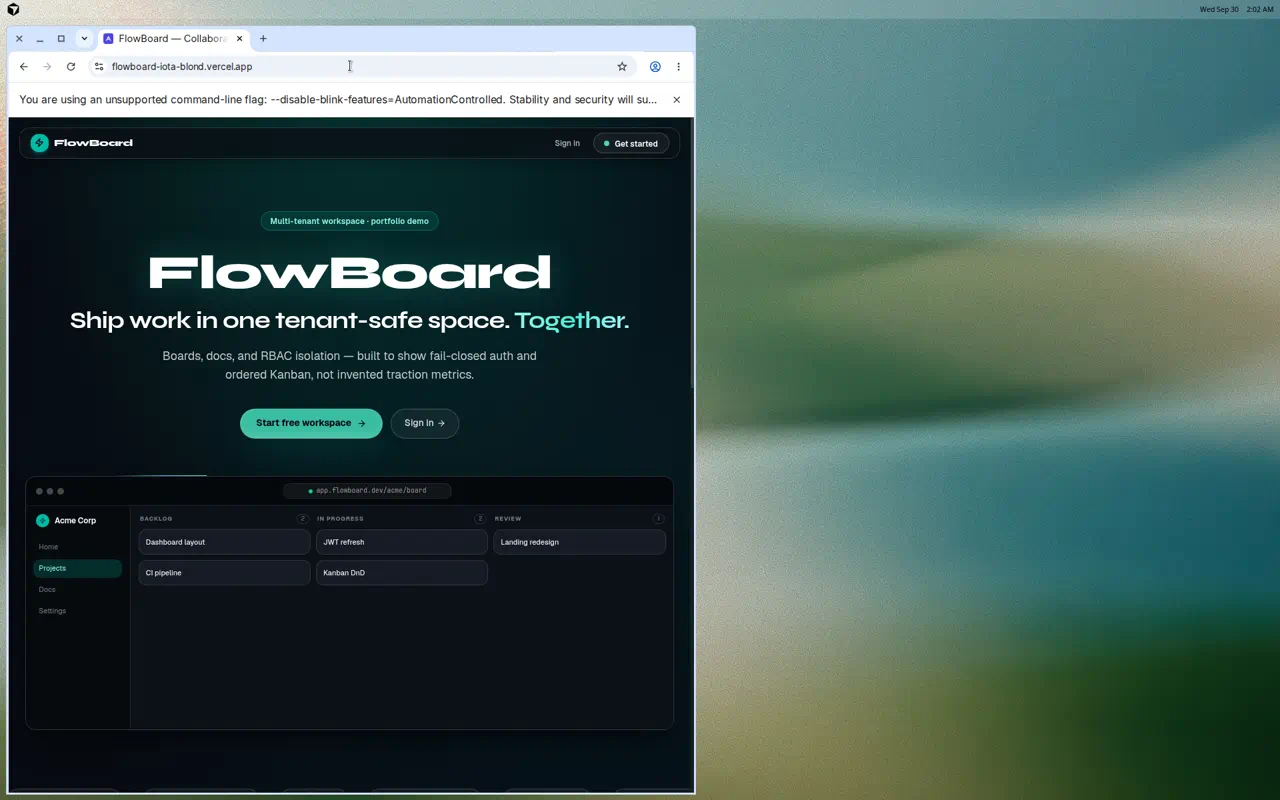
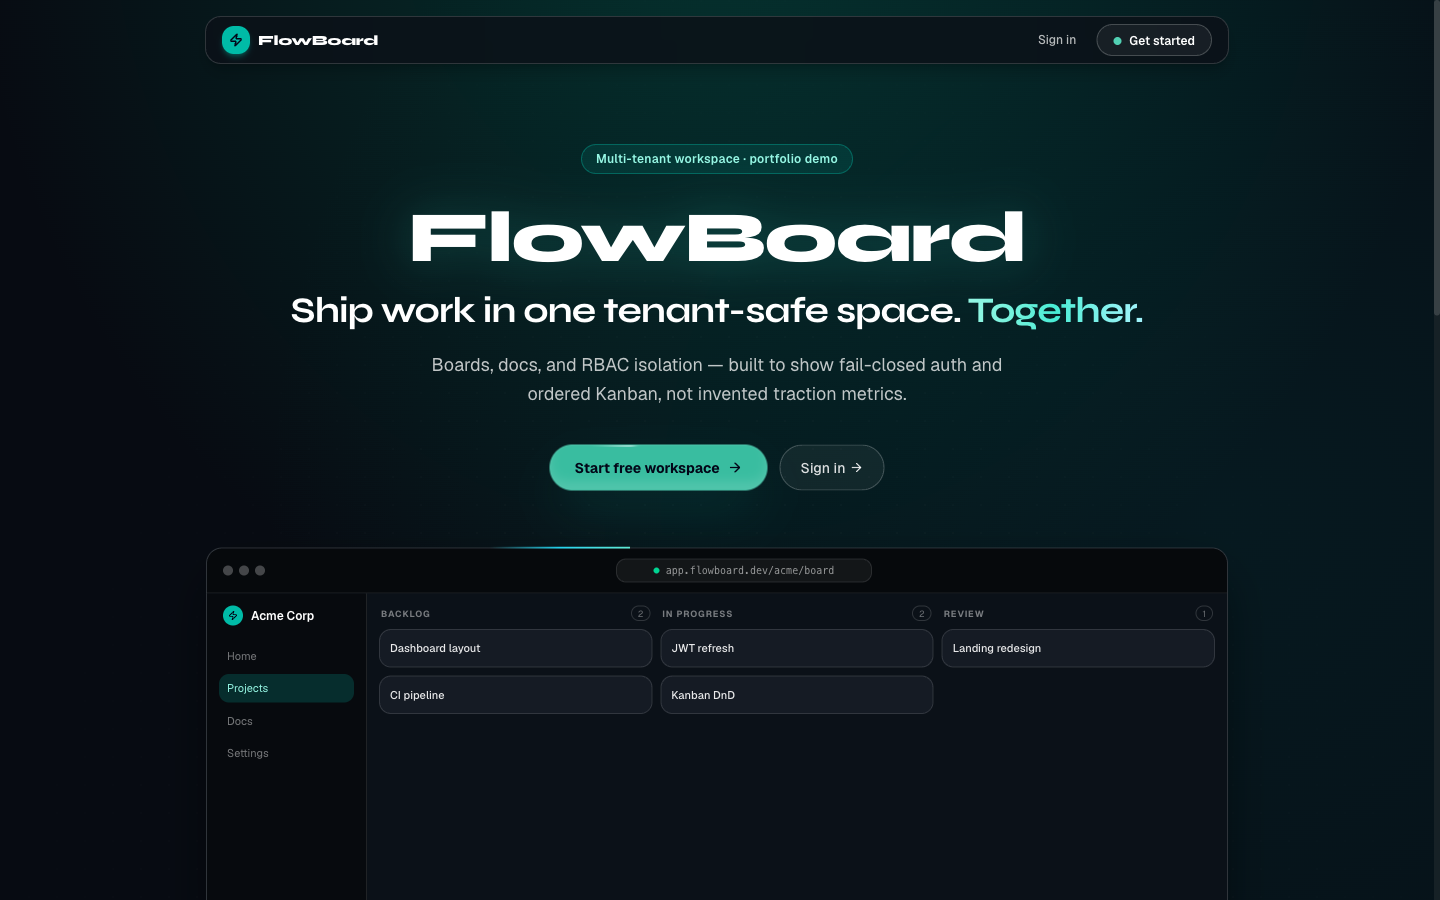
Replace README screenshots with clean page-only captures.
Drop browser-chrome health crop; show landing + populated Kanban from the live demo.

diff --git a/README.md b/README.md
@@ -24,15 +24,19 @@ Workspace JWT/RBAC, ordered Kanban, TipTap docs, and Redis-backed realtime — f
 
 ![FlowBoard landing — public Vercel demo](./assets/system-overview.png)
 
-*Public Vercel + Neon demo (interactive walkthrough). Redis pub/sub fanout is proven under Docker Compose / pytest with Redis 7.*
+*Public Vercel + Neon demo. Redis pub/sub fanout is proven under Docker Compose / pytest with Redis 7.*
 
-| Metric on `/health` crop | Value |
-|--------------------------|-------|
+![Kanban board — Platform launch](./assets/board-kanban.png)
+
+*In-app Kanban on the live demo (ordered columns, JWT session). Workspace overview: [`assets/workspace-docs.png`](./assets/workspace-docs.png).*
+
+| Live `/health` (demo) | Value |
+|-----------------------|-------|
 | `status` | **ok** |
 | `environment` | **production** |
-| `redis` | **null** |
+| `redis` | **null** (NullRedis; Compose uses Redis 7) |
 
-`/health` crop: [`assets/health-ok.png`](./assets/health-ok.png) · In-app workspace: [`assets/workspace-docs.png`](./assets/workspace-docs.png) · Evidence: [docs/METRICS.md](docs/METRICS.md)
+Evidence: [docs/METRICS.md](docs/METRICS.md)
 
 ---
 
